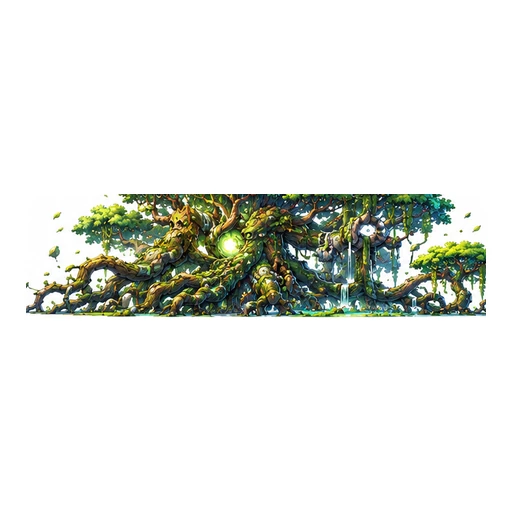
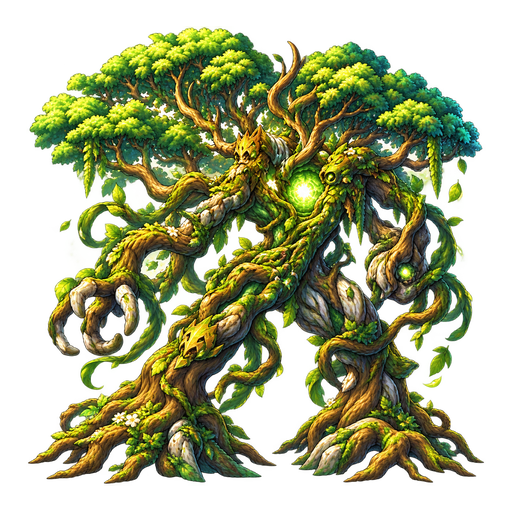
FINAL CLOSEOUT: register last 7 and formalize 238 assets

diff --git a/tests/monster-art-runtime.test.js b/tests/monster-art-runtime.test.js
@@ -56,11 +56,11 @@ test('W-114 normalized descriptions expose the same lossless schema across shard
   }
 })
 
-test('W-207 runtime art resolves the completed FORMAL set and retains the m235 placeholder safeguard', () => {
+test('W-207 runtime art resolves the completed FORMAL set including m235', () => {
   assert.equal(Object.keys(RUNTIME_MONSTER_ASSETS).length, 238)
   assert.equal(RUNTIME_MONSTER_ASSETS.m001.state, 'FORMAL')
   assert.equal(RUNTIME_MONSTER_ASSETS.m011.state, 'FORMAL')
-  assert.equal(RUNTIME_MONSTER_ASSETS.m235.state, 'PLACEHOLDER')
+  assert.equal(RUNTIME_MONSTER_ASSETS.m235.state, 'FORMAL')
 
   const formal = resolveMonsterArt('m001')
   assert.equal(formal.state, 'FORMAL')
@@ -72,10 +72,10 @@ test('W-207 runtime art resolves the completed FORMAL set and retains the m235 p
   assert.equal(completed.src, '/monsters/m011.webp')
   assert.equal(completed.isFormal, true)
 
-  const placeholder = resolveMonsterArt('m235')
-  assert.equal(placeholder.state, 'PLACEHOLDER')
-  assert.equal(placeholder.src, null)
-  assert.equal(placeholder.isFormal, false)
+  const m235 = resolveMonsterArt('m235')
+  assert.equal(m235.state, 'FORMAL')
+  assert.equal(m235.src, '/monsters/m235.webp')
+  assert.equal(m235.isFormal, true)
 
   const excluded = resolveMonsterArt('m239')
   assert.equal(excluded.state, 'MISSING')

diff --git a/tests/candidate-playtest-preview.test.js b/tests/candidate-playtest-preview.test.js
@@ -48,17 +48,17 @@ test('every generated candidate has an exact WebP/provenance pair', () => {
   }
 })
 
-test('FINAL ART CLOSEOUT promotes every completed active asset except m235 to FORMAL', () => {
+test('FINAL ART CLOSEOUT promotes every active asset to FORMAL', () => {
   const manifest = JSON.parse(fs.readFileSync(path.join(ROOT, 'design/current/monster-asset-manifest.json'), 'utf8'))
   const assets = Object.values(manifest.assets)
   const formal = Object.entries(manifest.assets).filter(([, asset]) => asset.state === 'FORMAL')
-  assert.equal(formal.length, 237)
+  assert.equal(formal.length, 238)
   assert.equal(assets.filter((asset) => asset.state === 'CANDIDATE').length, 0)
-  assert.equal(assets.filter((asset) => asset.state === 'PLACEHOLDER').length, 1)
+  assert.equal(assets.filter((asset) => asset.state === 'PLACEHOLDER').length, 0)
   for (const [speciesId, asset] of formal) {
     assert.equal(asset.formalAsset, `/monsters/${speciesId}.webp`)
     assert.equal(asset.approvalEvidence?.approved, true)
     assert.equal(asset.approvalEvidence?.approvalType, 'CURRENT_FORMAL')
   }
-  assert.equal(manifest.assets.m235.state, 'PLACEHOLDER')
+  assert.equal(manifest.assets.m235.state, 'FORMAL')
 })

diff --git a/tests/w220-release-hardening.test.js b/tests/w220-release-hardening.test.js
@@ -11,7 +11,7 @@ test('W-220 source release contracts keep Vercel-root PWA isolated and installab
   const report = verifySourceContracts({ root })
   assert.equal(report.canonicalUrl, 'https://mana-evo.vercel.app/')
   assert.equal(report.appBase, '/')
-  assert.deepEqual(report.artCounts, { FORMAL: 237, CANDIDATE: 0, PLACEHOLDER: 1 })
+  assert.deepEqual(report.artCounts, { FORMAL: 238, CANDIDATE: 0, PLACEHOLDER: 0 })
 })
 
 test('production reachability keeps save-compatibility sprite v3 but proves v1 dead before removal', () => {
